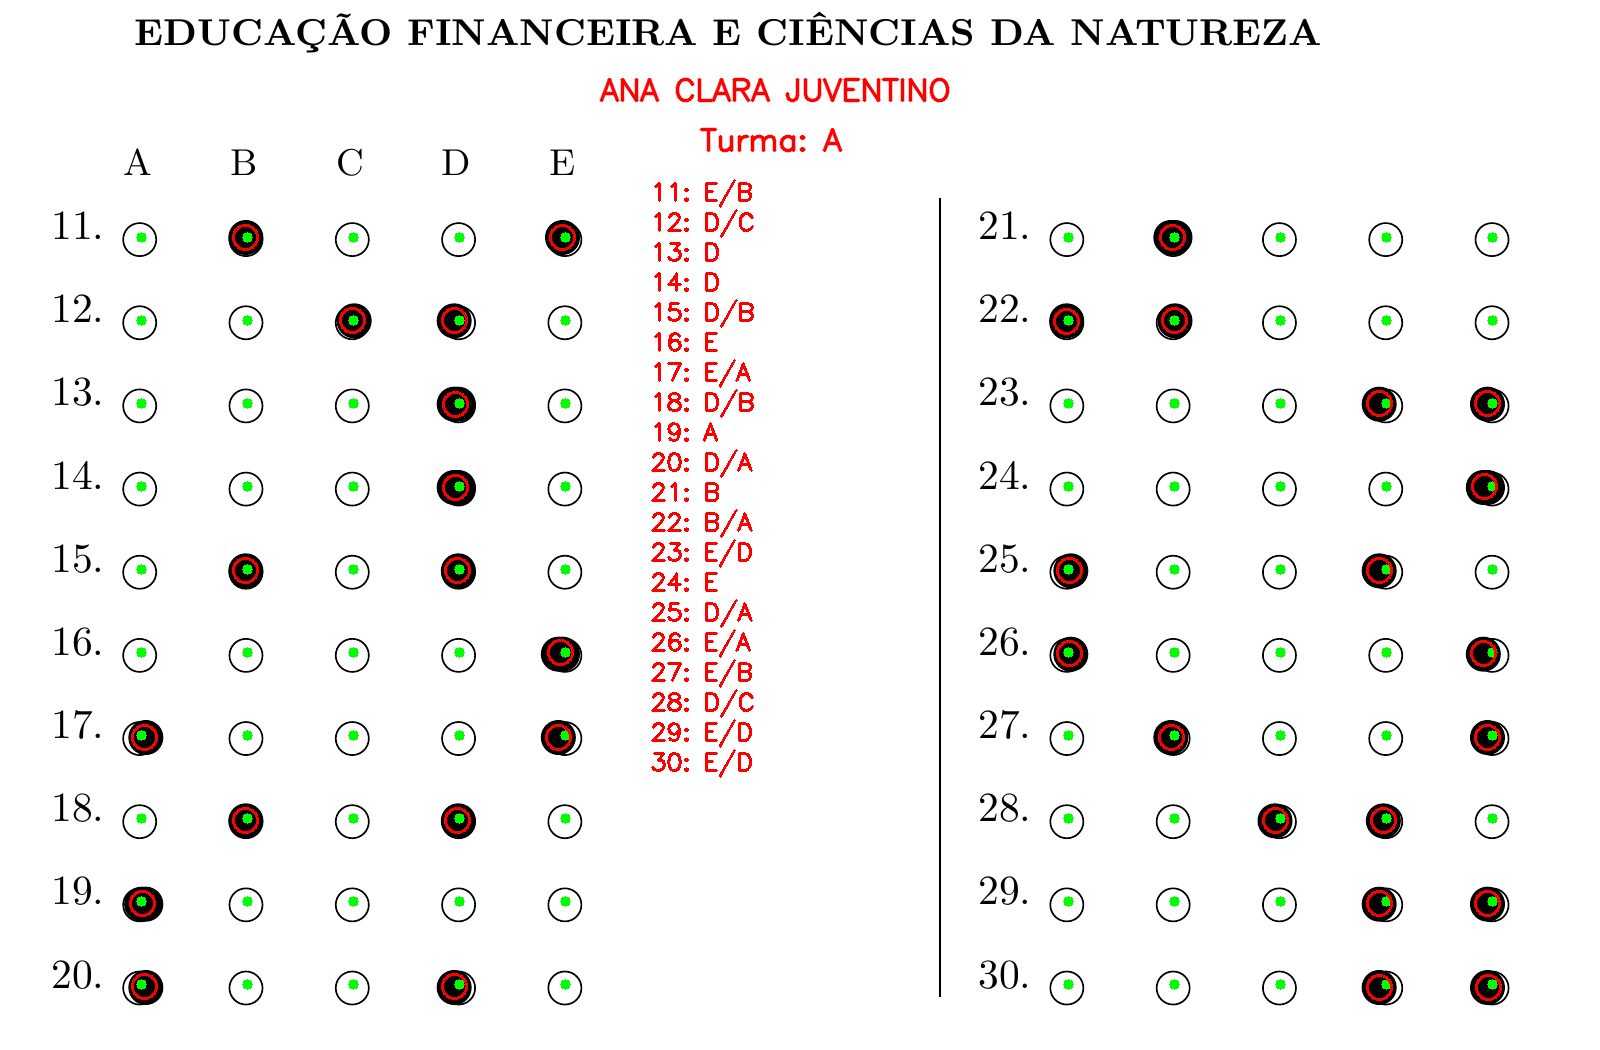
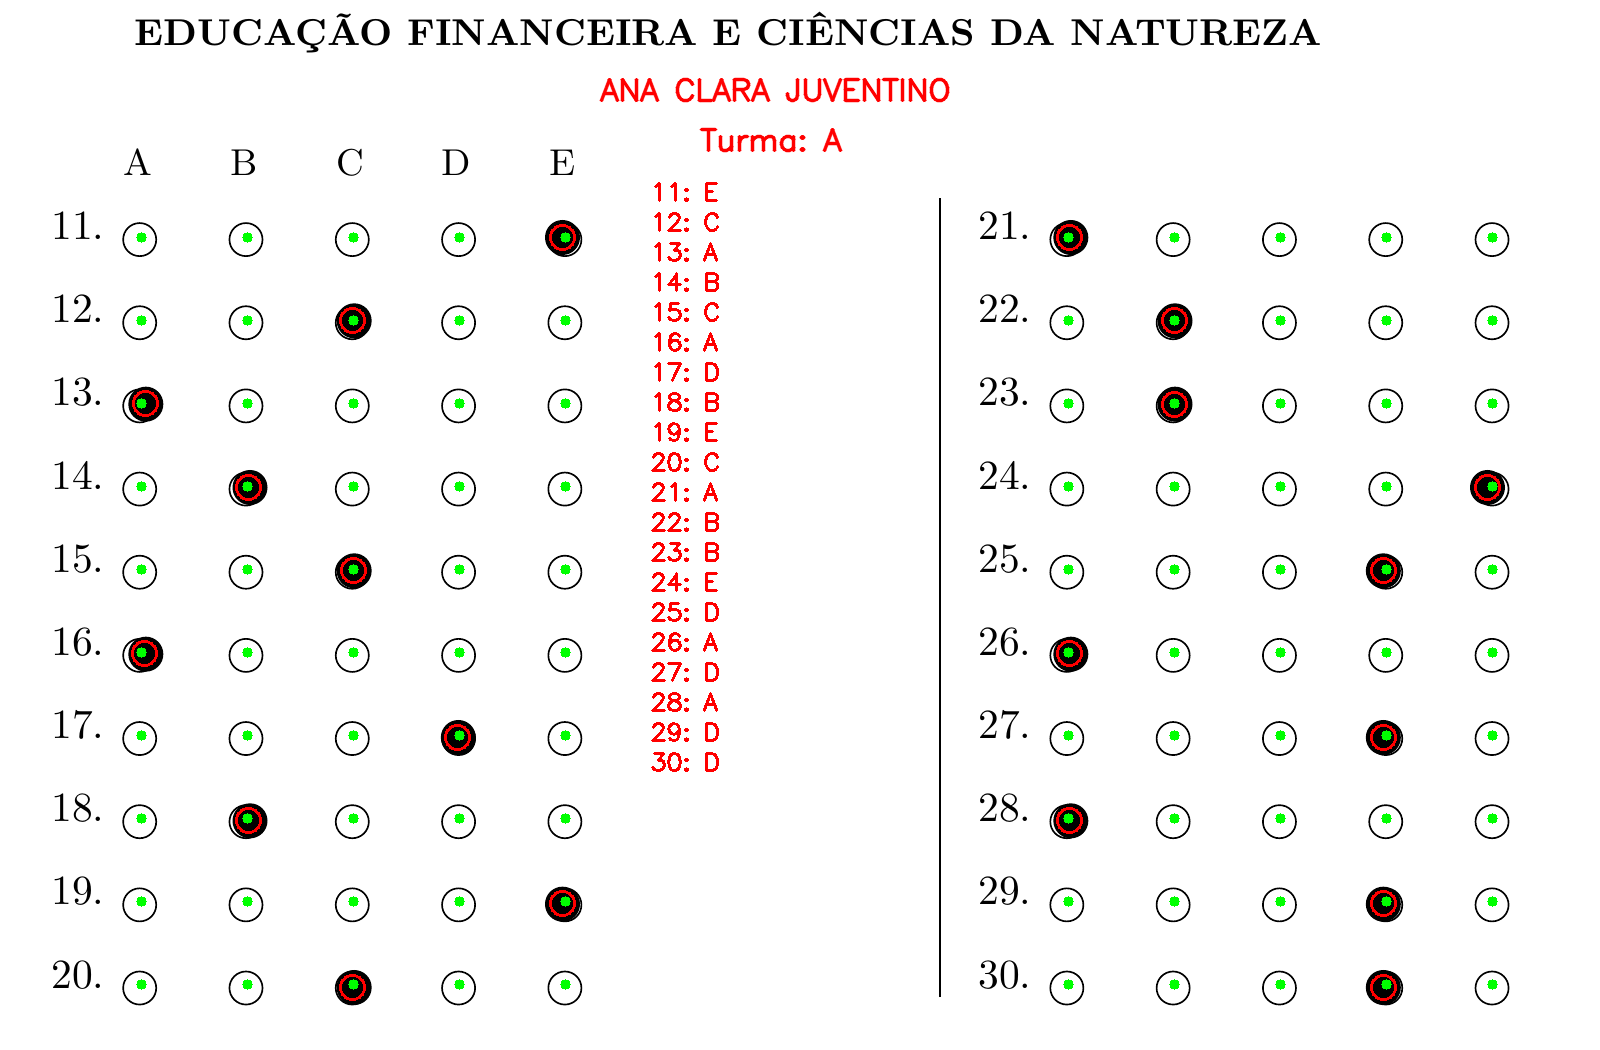
testing the code. It is working.

diff --git a/AI/gabarito_answered/fill_answer_gabarito.py b/AI/gabarito_answered/fill_answer_gabarito.py
@@ -81,9 +81,9 @@ for i in range(5):
     circles.append((x, y)) 
 
     # fill one circle more to test
-    x1_ = random.choice(x1)
-    y1_ = y
-    circles.append((x1_, y1_)) 
+    #x1_ = random.choice(x1)
+    #y1_ = y
+    #circles.append((x1_, y1_)) 
 
 j = 0
 for i in range(5):
@@ -101,9 +101,9 @@ for i in range(10):
     #print(x, y)
     circles.append((x, y))
     # fill one circle more to test
-    x3_ = random.choice(x3)
-    y3_ = y
-    circles.append((x3_, y3_)) 
+    #x3_ = random.choice(x3)
+    #y3_ = y
+    #circles.append((x3_, y3_)) 
 
 j = 0
 for i in range(10):
@@ -113,9 +113,9 @@ for i in range(10):
     #print(x, y)
     circles.append((x, y))
     # fill one circle more to test
-    x4_ = random.choice(x4)
-    y4_ = y
-    circles.append((x4_, y4_)) 
+    #x4_ = random.choice(x4)
+    #y4_ = y
+    #circles.append((x4_, y4_)) 
 
 for x, y in circles:
     # Draw filled circle

diff --git a/AI/gabarito_answered/readpngtoarray.py b/AI/gabarito_answered/readpngtoarray.py
@@ -259,8 +259,8 @@ for (x, y, r) in circles:
 
 # Escreve o resultado próximo ao canto (ajuste conforme layout)
 for idx, (q, ans) in enumerate(sorted(results.items()), start=1):
-    cv2.putText(annot, f"{q}:{ans}", (750, 120 + 30 * idx),
-                font, 0.7, (255, 0, 0), 2)
+    cv2.putText(annot, f"{q}:{ans}", (650, 120 + 30 * idx),
+                font, 0.8, (0, 0, 255), 2)
 
 cv2.imwrite(out_annot, annot)
 print("Imagem anotada salva em", out_annot)
